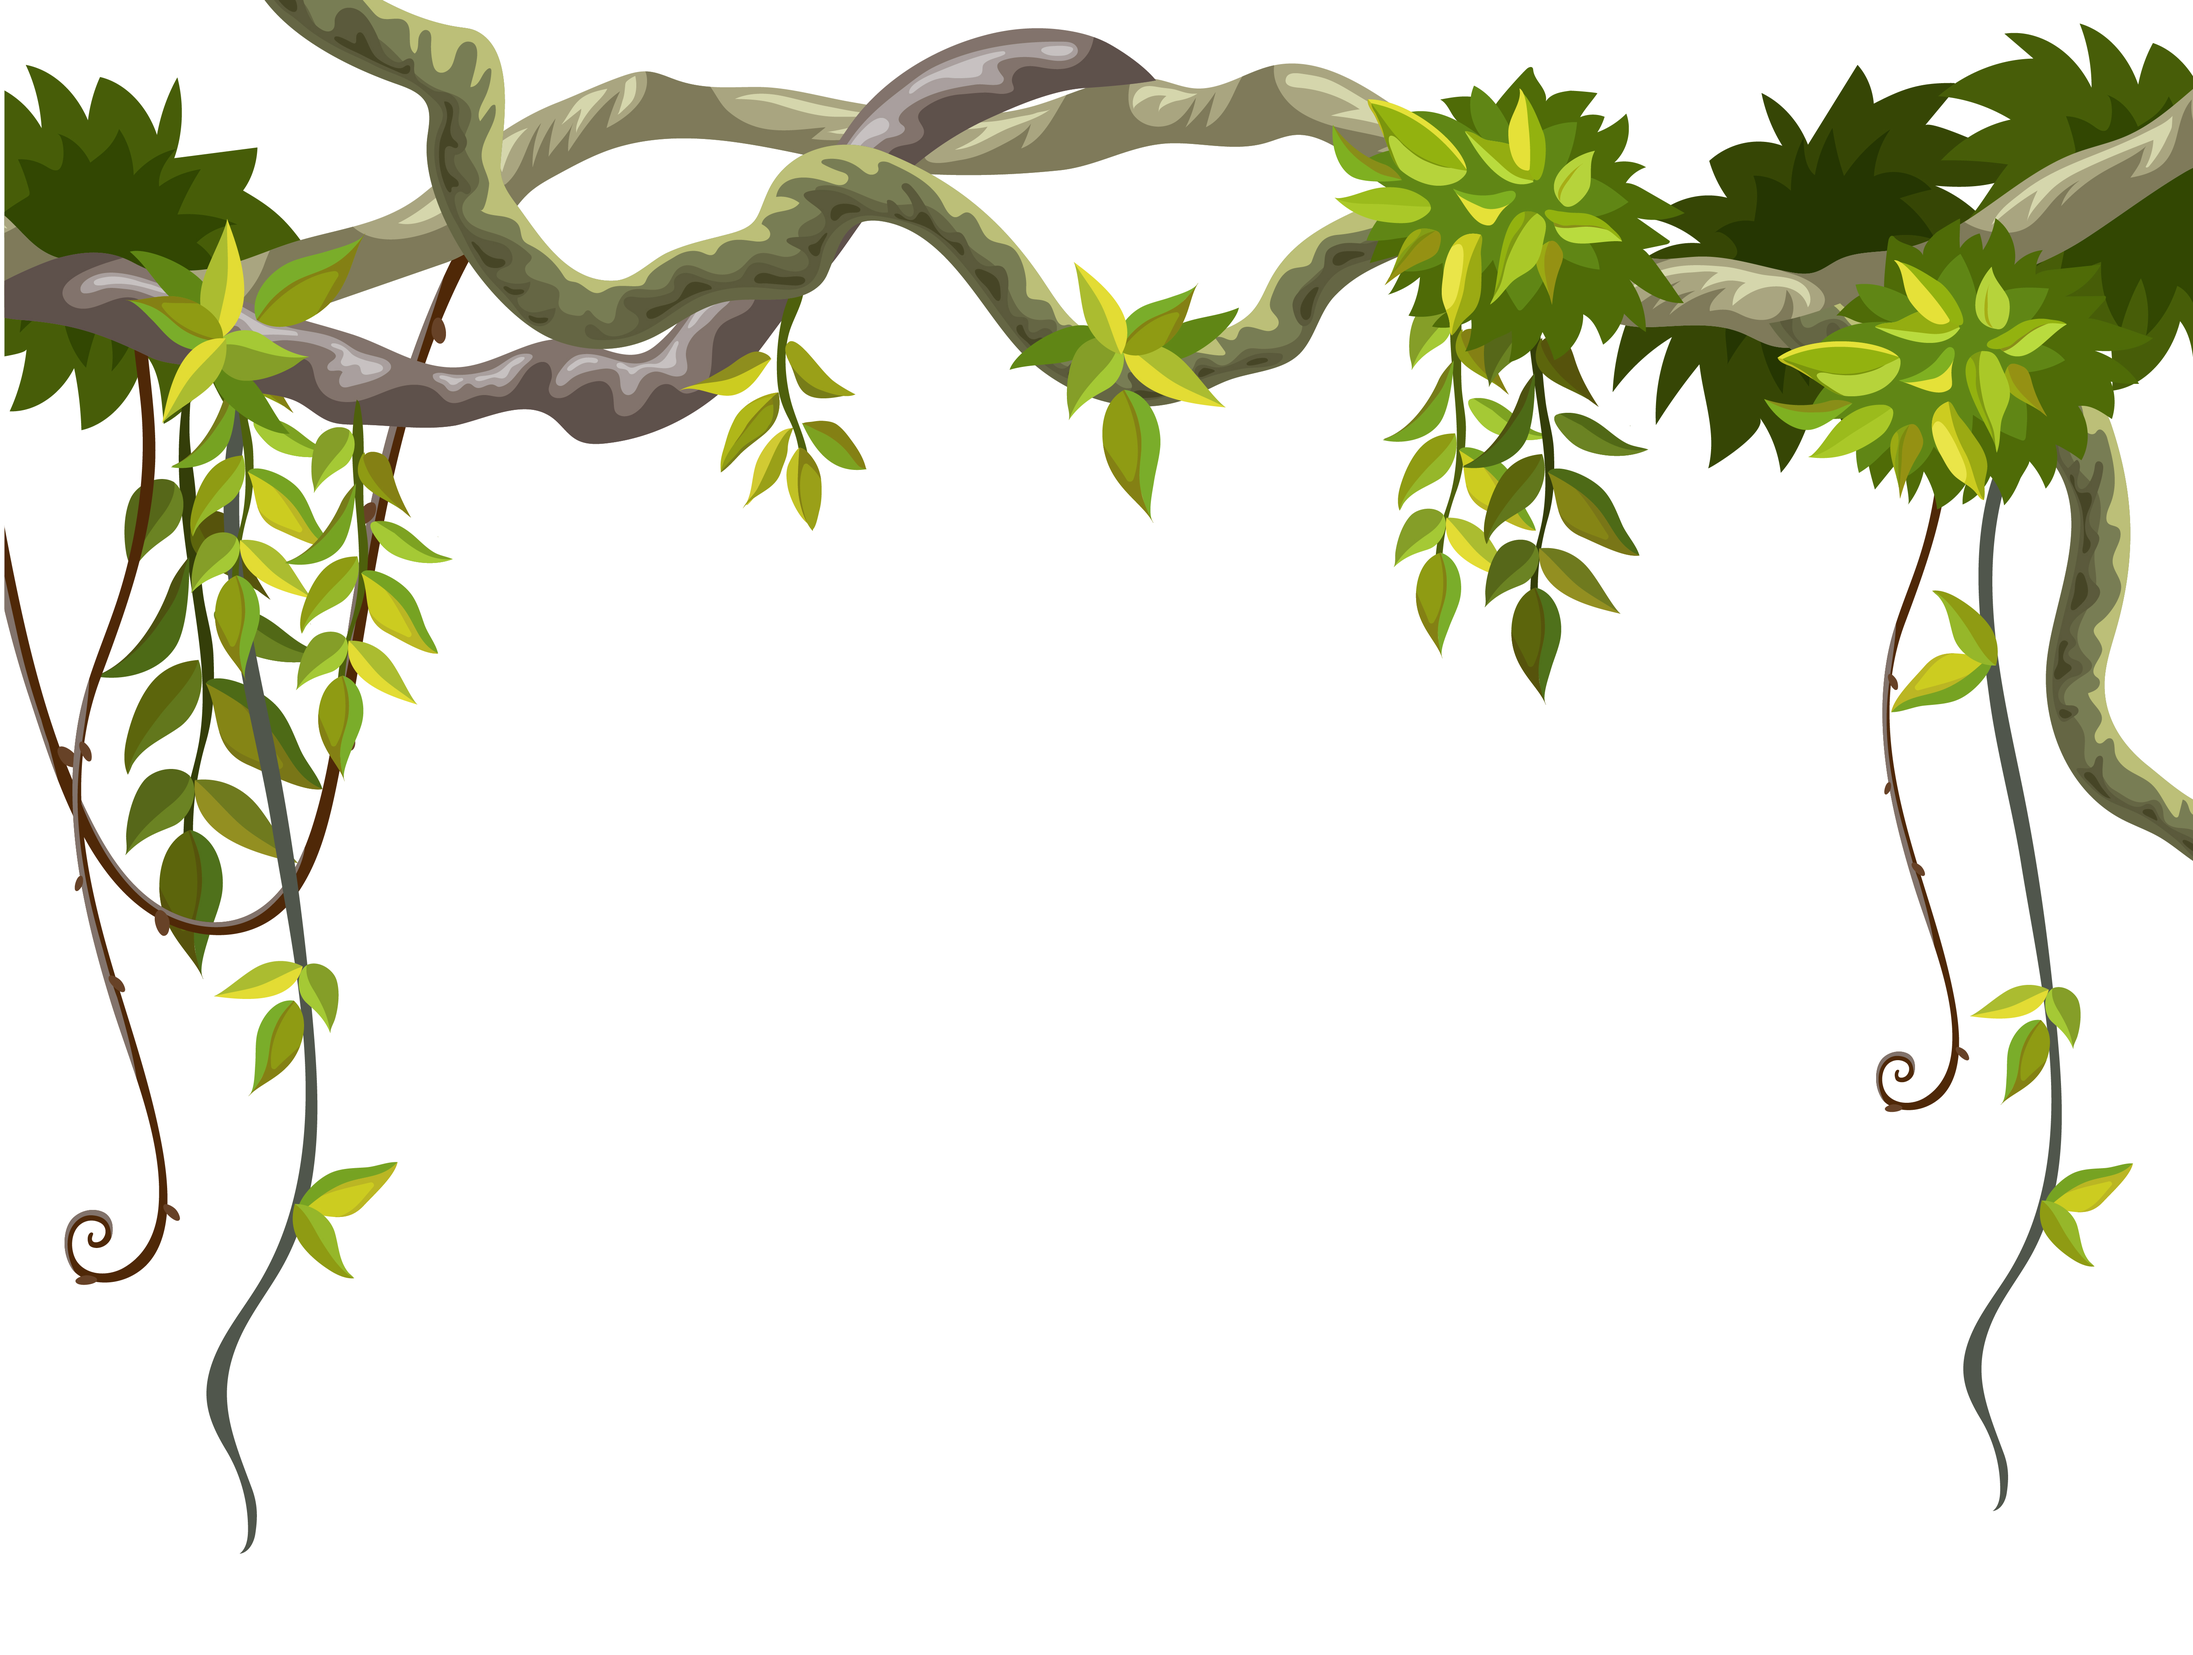
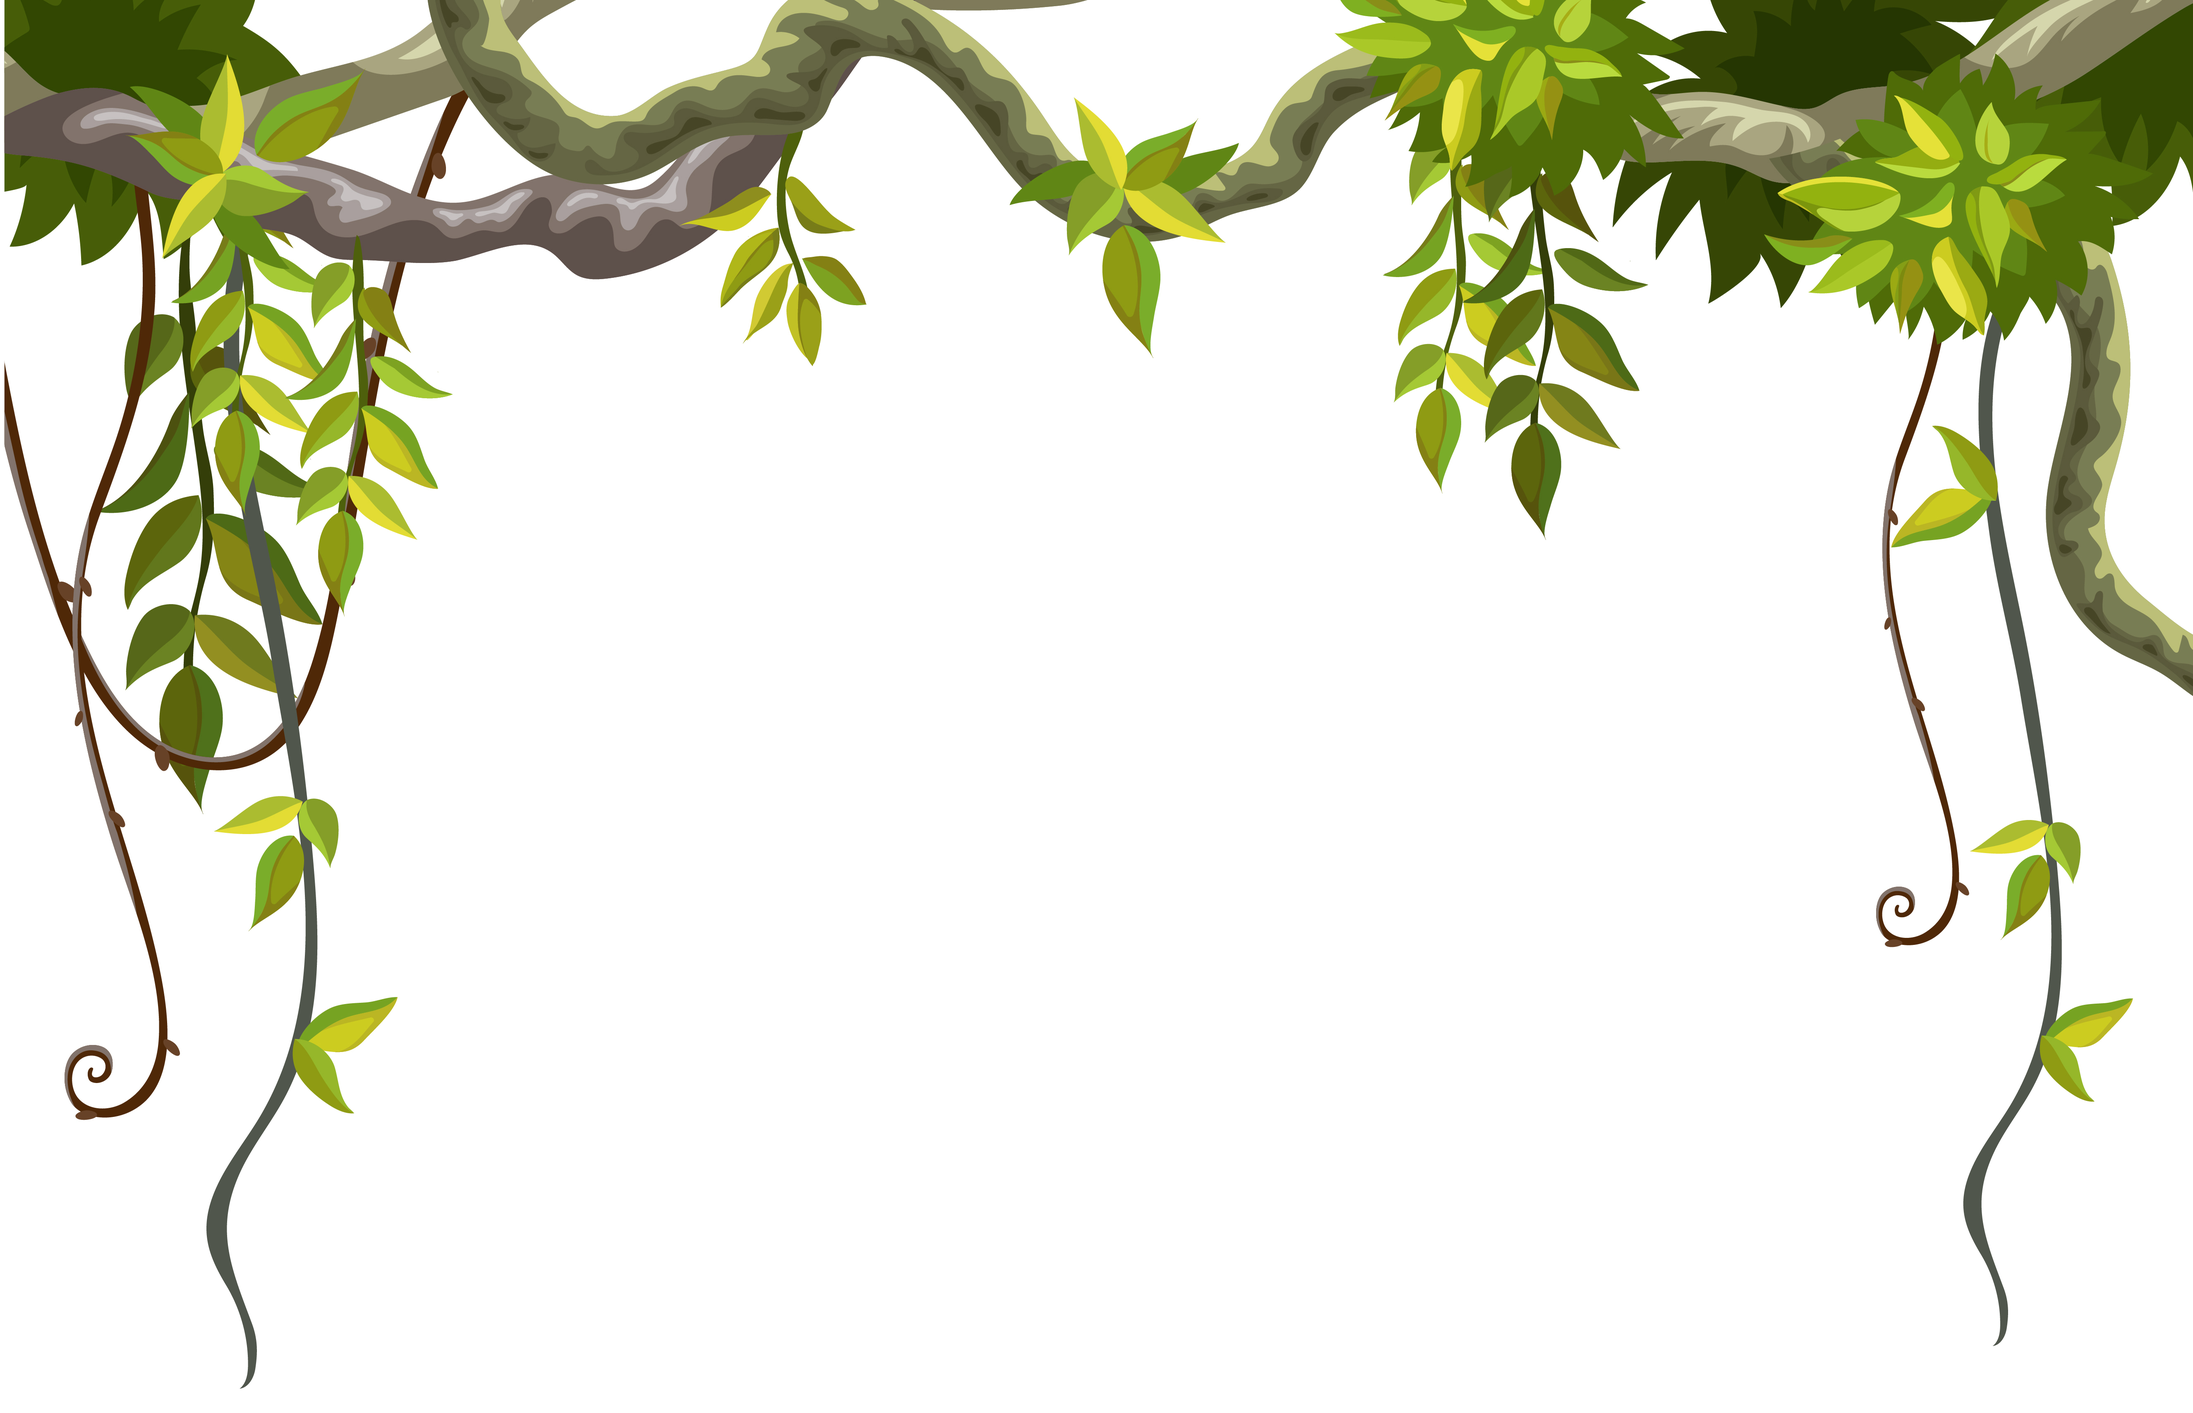
lianeFolie

diff --git a/index.html b/index.html
@@ -13,7 +13,7 @@
     <title>Document</title>
 </head>
 <section>
-    <img class = liane src="../assets/liane3.png" alt="img" >
+    <img class = liane src="../assets/lianeFolie.png" alt="img" >
     <section class = tout>
 <header>
 <h1>Forest Call</h1>

diff --git a/styles.css b/styles.css
@@ -30,7 +30,7 @@ header {
 
     color: white;
     background-color: var(--fourth-color);
-    padding-top: 25vh;
+    padding-top: 10vh;
     padding-bottom: 3vh;
     text-align: center;
 }
